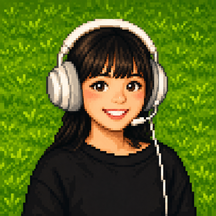
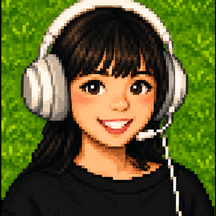
Michelle habla mientras está en pantalla

diff --git a/index.html b/index.html
@@ -956,11 +956,11 @@
     twTimer = setInterval(() => {
       i += 2;
       dlgText.textContent = str.slice(0, i);
-      if (i >= str.length) { clearInterval(twTimer); typing = false; faceTalk(false); }
+      if (i >= str.length) { clearInterval(twTimer); typing = false; }
     }, 16);
   }
   dlgText.addEventListener('click', () => {
-    if (typing) { clearInterval(twTimer); typing = false; dlgText.textContent = twStr; faceTalk(false); }
+    if (typing) { clearInterval(twTimer); typing = false; dlgText.textContent = twStr; }
   });
 
   function mkBtn(label, cls, fn) {
@@ -976,7 +976,7 @@
     dlgName.textContent = t.name;
     dlgActions.innerHTML = '';
     clearHl();
-    if (!step) { dlg.classList.remove('show'); return; }
+    if (!step) { faceTalk(false); dlg.classList.remove('show'); return; }
     dlg.classList.add('show');
     if (step === 'entry') {
       typeText(t.entry);
@@ -991,11 +991,11 @@
     } else if (step === 'questScreen') {
       typeText(t.questScreen); highlight(pantalla);
     } else if (step === 'xpTips') {
-      dlg.classList.remove('show'); startXPCoach();
+      faceTalk(false); dlg.classList.remove('show'); startXPCoach();
     } else if (step === 'questPhone') {
       typeText(t.questPhone); highlight(telefono);
     } else if (step === 'phoneTips') {
-      dlg.classList.remove('show'); startNokiaCoach();
+      faceTalk(false); dlg.classList.remove('show'); startNokiaCoach();
     } else if (step === 'finale') {
       typeText(t.finale);
       dlgActions.append(mkBtn(t.finish, 'primary', () => finishTutorial()));
@@ -1216,10 +1216,9 @@
     xpTutCount.textContent = (xt.i + 1) + '/' + XT_STEPS.length;
     xpTutCount.classList.remove('done');
     xpTutText.textContent = XT_STEPS[xt.i].txt(t);
-    /* Michelle "dice" el paso: gif de habla un momento y vuelve a reposo */
+    /* Michelle habla TODO el tiempo que el panel esta en pantalla */
     xpTutCat.src = FACE_TALK + '?t=' + Date.now();
     clearTimeout(xtFaceT);
-    xtFaceT = setTimeout(() => { xpTutCat.src = FACE_IDLE; }, 1100);
     xpTutBack.disabled = xt.i === 0;
     xpTutSkip.textContent = t.xsSkip;
     xpTutNext.textContent = last ? t.xsGotIt : '▶';
@@ -1250,6 +1249,8 @@
     xt = null;
     xtStopPoll();
     xtClearHl();
+    clearTimeout(xtFaceT);
+    xpTutCat.src = FACE_IDLE;
     xpOv.classList.remove('with-tut');
     if (save) store.set('pr_tutXPDone', '1');
   }
@@ -1322,6 +1323,8 @@
   function xpSayHide() {
     xpSayMode = false;
     clearTimeout(xpSayT);
+    clearTimeout(xtFaceT);
+    if (!xt) xpTutCat.src = FACE_IDLE;
     xpOv.classList.remove('with-say');
   }
   function xpSayShow(detail) {
@@ -1336,9 +1339,8 @@
     xpTutCount.textContent = '';
     xpTutCount.classList.remove('done');
     xpTutText.textContent = say[lang] || say.en;
-    xpTutCat.src = FACE_TALK + '?t=' + Date.now();
+    xpTutCat.src = FACE_TALK + '?t=' + Date.now(); /* habla sin parar mientras el panel este visible */
     clearTimeout(xtFaceT);
-    xtFaceT = setTimeout(() => { if (!xt) xpTutCat.src = FACE_IDLE; }, 1400);
     xpTutBack.style.display = 'none';
     xpTutSkip.style.display = 'none';
     xpTutNext.textContent = 'got it 👍';
